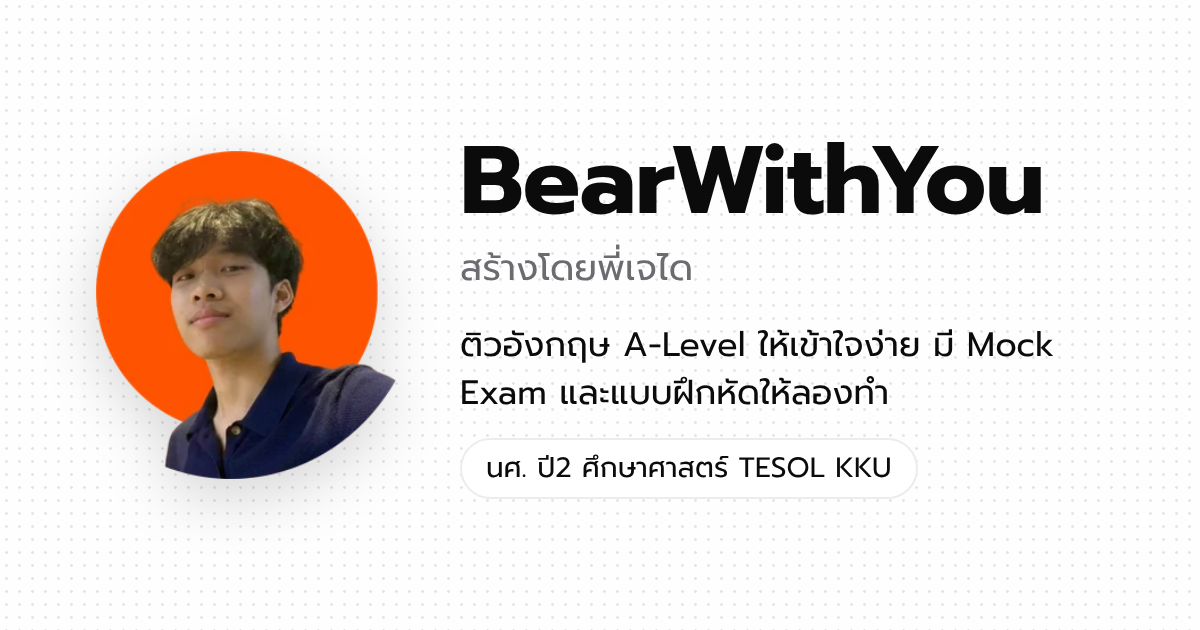
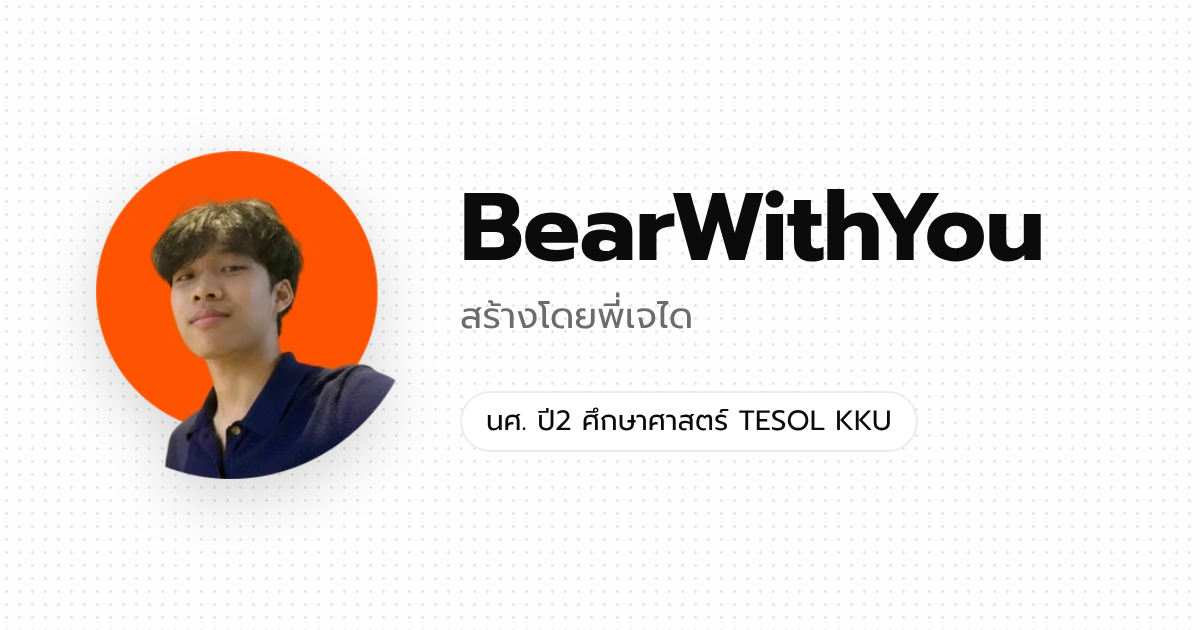
Link page content from Links Studio
- Real links for Drive, Widget, LINE OpenChat and social profiles
- Large images on the three main buttons (links/img/), badges, no bio line
- og.png regenerated from the new profile

Claude-Session: https://claude.ai/code/session_01HUgxUidVAsaGRWz3NAk6tj

diff --git a/links/ig.html b/links/ig.html
@@ -5,14 +5,14 @@
 <meta charset="UTF-8">
 <meta name="viewport" content="width=device-width, initial-scale=1, viewport-fit=cover">
 <title>BearWithYou</title>
-<meta name="description" content="ติวอังกฤษ A-Level ให้เข้าใจง่าย มี Mock Exam และแบบฝึกหัดให้ลองทำ · สร้างโดยพี่เจได">
+<meta name="description" content="สร้างโดยพี่เจได">
 <meta name="theme-color" content="#FEFEFE" media="(prefers-color-scheme: light)">
 <meta name="theme-color" content="#0F0F11" media="(prefers-color-scheme: dark)">
 <link rel="canonical" href="https://bearwithyou.pages.dev/">
 <meta property="og:type" content="website">
 <meta property="og:url" content="https://bearwithyou.pages.dev/">
 <meta property="og:title" content="BearWithYou">
-<meta property="og:description" content="ติวอังกฤษ A-Level ให้เข้าใจง่าย มี Mock Exam และแบบฝึกหัดให้ลองทำ · สร้างโดยพี่เจได">
+<meta property="og:description" content="สร้างโดยพี่เจได">
 <meta property="og:image" content="https://bearwithyou.pages.dev/og.png">
 <meta property="og:image:width" content="1200">
 <meta property="og:image:height" content="630">
@@ -81,13 +81,12 @@ main{max-width:480px;margin:0 auto;padding:calc(36px + env(safe-area-inset-top,0
 <h1>BearWithYou</h1>
 <p class="by">สร้างโดยพี่เจได</p>
 <p class="pill">นศ. ปี2 ศึกษาศาสตร์ TESOL KKU</p>
-<p class="bio">ติวอังกฤษ <span class="nw">A-Level</span> ให้เข้าใจง่าย มี Mock Exam และแบบฝึกหัดให้ลองทำ</p>
 </header>
 <div class="blocks">
-<a class="b main" href="https://drive.google.com/drive/folders/1tSdpEq-BS-pVeHRoMoDGDK5kG5cLhAdD" data-id="mock"><span class="tile"><svg class="ico" viewBox="0 0 24 24" aria-hidden="true"><path d="M3.5 7.5A2.5 2.5 0 0 1 6 5h3.6l2.2 2.4H18a2.5 2.5 0 0 1 2.5 2.5v7.6A2.5 2.5 0 0 1 18 20H6a2.5 2.5 0 0 1-2.5-2.5Z"/><path d="M3.5 10.5h17"/></svg></span><span class="t"><b>Mock Exam &amp; แบบฝึกหัด <span class="nw">A-Level</span></b><small>โฟลเดอร์ Google Drive</small></span><svg class="ico go" viewBox="0 0 24 24" aria-hidden="true"><path d="M9 5.5 15.5 12 9 18.5"/></svg></a>
-<a class="b" href="https://bwy-widget.pages.dev/?src=bio" data-id="widget"><span class="tile"><svg class="ico" viewBox="0 0 24 24" aria-hidden="true"><rect x="3.5" y="3.5" width="7" height="7" rx="2"/><rect x="13.5" y="3.5" width="7" height="7" rx="2"/><rect x="3.5" y="13.5" width="7" height="7" rx="2"/><rect x="13.5" y="13.5" width="7" height="7" rx="2"/></svg></span><span class="t"><b>Widget นับถอยหลังวันสอบ Dek70</b><small>ฟรี ติดตั้งบน iPhone / iPad</small></span><svg class="ico go" viewBox="0 0 24 24" aria-hidden="true"><path d="M9 5.5 15.5 12 9 18.5"/></svg></a>
-<a class="b" href="https://example.com/openchat" data-id="openchat"><span class="tile"><svg class="ico" viewBox="0 0 24 24" aria-hidden="true"><path d="M12 4c4.7 0 8.5 3 8.5 6.8 0 3.7-3.8 6.7-8.5 6.7-.8 0-1.5-.1-2.2-.2L5.5 20l.6-3.9C4.4 14.9 3.5 13 3.5 10.8 3.5 7 7.3 4 12 4Z"/><path d="M8.5 10.8h.01M12 10.8h.01M15.5 10.8h.01" stroke-width="2.6"/></svg></span><span class="t"><b>LINE OpenChat</b><small>ถามตอบ แจ้งข่าวสอบ</small></span><svg class="ico go" viewBox="0 0 24 24" aria-hidden="true"><path d="M9 5.5 15.5 12 9 18.5"/></svg></a>
-<section class="follow"><h2>ติดตาม BearWithYou</h2><ul class="chips"><li><a href="https://example.com/tiktok" data-id="tiktok">TikTok</a></li><li><a href="https://example.com/instagram" data-id="instagram">Instagram</a></li><li><a href="https://example.com/x" data-id="x">X</a></li><li><a href="https://example.com/threads" data-id="threads">Threads</a></li><li><a href="https://example.com/lemon8" data-id="lemon8">Lemon8</a></li></ul></section>
+<a class="b main cover" href="https://drive.google.com/drive/folders/1tSdpEq-BS-pVeHRoMoDGDK5kG5cLhAdD" data-id="mock"><img class="cv" src="/img/mock-d5fd8f62.webp" width="720" height="398" alt="" loading="lazy" decoding="async"><span class="row"><span class="t"><b>Google Drive<span class="tag">รวม 178 ข้อ</span></b></span><svg class="ico go" viewBox="0 0 24 24" aria-hidden="true"><path d="M9 5.5 15.5 12 9 18.5"/></svg></span></a>
+<a class="b main cover" href="https://bwy-widget.pages.dev/?src=bio" data-id="widget"><img class="cv" src="/img/widget-783f0529.webp" width="720" height="420" alt="" loading="lazy" decoding="async"><span class="row"><span class="t"><b>นับถอยหลังวันสำคัญ<span class="tag">เฉพาะ iOS</span></b></span><svg class="ico go" viewBox="0 0 24 24" aria-hidden="true"><path d="M9 5.5 15.5 12 9 18.5"/></svg></span></a>
+<a class="b main cover" href="https://line.me/ti/g2/XaunxJjN36RqM0Febwc7-tvzH9c39IR8-aUNeA?utm_source=invitation&amp;utm_medium=link_copy&amp;utm_campaign=default" data-id="openchat"><img class="cv" src="/img/openchat-212e9835.webp" width="720" height="438" alt="" loading="lazy" decoding="async"><span class="row"><span class="t"><b>LINE OpenChat<span class="tag">BearWithYou_˚✮</span></b></span><svg class="ico go" viewBox="0 0 24 24" aria-hidden="true"><path d="M9 5.5 15.5 12 9 18.5"/></svg></span></a>
+<section class="follow"><h2>ติดตาม BearWithYou</h2><ul class="chips"><li><a href="https://www.tiktok.com/@bearwithyou21?is_from_webapp=1&amp;sender_device=pc" data-id="tiktok">TikTok</a></li><li><a href="https://www.instagram.com/bearwithyou_exam?avpt=ZDNlZDc0MzIxNw==" data-id="instagram">Instagram</a></li><li><a href="https://x.com/webeartogether?s=11" data-id="x">X</a></li><li><a href="https://www.threads.com/@bearwithyou__" data-id="threads">Threads</a></li><li><a href="https://s.lemon8-app.com/s/GgTkhYTdMh" data-id="lemon8">Lemon8</a></li></ul></section>
 </div>
 </main>
 <script>

diff --git a/links/index.html b/links/index.html
@@ -5,14 +5,14 @@
 <meta charset="UTF-8">
 <meta name="viewport" content="width=device-width, initial-scale=1, viewport-fit=cover">
 <title>BearWithYou</title>
-<meta name="description" content="ติวอังกฤษ A-Level ให้เข้าใจง่าย มี Mock Exam และแบบฝึกหัดให้ลองทำ · สร้างโดยพี่เจได">
+<meta name="description" content="สร้างโดยพี่เจได">
 <meta name="theme-color" content="#FEFEFE" media="(prefers-color-scheme: light)">
 <meta name="theme-color" content="#0F0F11" media="(prefers-color-scheme: dark)">
 <link rel="canonical" href="https://bearwithyou.pages.dev/">
 <meta property="og:type" content="website">
 <meta property="og:url" content="https://bearwithyou.pages.dev/">
 <meta property="og:title" content="BearWithYou">
-<meta property="og:description" content="ติวอังกฤษ A-Level ให้เข้าใจง่าย มี Mock Exam และแบบฝึกหัดให้ลองทำ · สร้างโดยพี่เจได">
+<meta property="og:description" content="สร้างโดยพี่เจได">
 <meta property="og:image" content="https://bearwithyou.pages.dev/og.png">
 <meta property="og:image:width" content="1200">
 <meta property="og:image:height" content="630">
@@ -81,13 +81,12 @@ main{max-width:480px;margin:0 auto;padding:calc(36px + env(safe-area-inset-top,0
 <h1>BearWithYou</h1>
 <p class="by">สร้างโดยพี่เจได</p>
 <p class="pill">นศ. ปี2 ศึกษาศาสตร์ TESOL KKU</p>
-<p class="bio">ติวอังกฤษ <span class="nw">A-Level</span> ให้เข้าใจง่าย มี Mock Exam และแบบฝึกหัดให้ลองทำ</p>
 </header>
 <div class="blocks">
-<a class="b main" href="https://drive.google.com/drive/folders/1tSdpEq-BS-pVeHRoMoDGDK5kG5cLhAdD" data-id="mock"><span class="tile"><svg class="ico" viewBox="0 0 24 24" aria-hidden="true"><path d="M3.5 7.5A2.5 2.5 0 0 1 6 5h3.6l2.2 2.4H18a2.5 2.5 0 0 1 2.5 2.5v7.6A2.5 2.5 0 0 1 18 20H6a2.5 2.5 0 0 1-2.5-2.5Z"/><path d="M3.5 10.5h17"/></svg></span><span class="t"><b>Mock Exam &amp; แบบฝึกหัด <span class="nw">A-Level</span></b><small>โฟลเดอร์ Google Drive</small></span><svg class="ico go" viewBox="0 0 24 24" aria-hidden="true"><path d="M9 5.5 15.5 12 9 18.5"/></svg></a>
-<a class="b" href="https://bwy-widget.pages.dev/?src=bio" data-id="widget"><span class="tile"><svg class="ico" viewBox="0 0 24 24" aria-hidden="true"><rect x="3.5" y="3.5" width="7" height="7" rx="2"/><rect x="13.5" y="3.5" width="7" height="7" rx="2"/><rect x="3.5" y="13.5" width="7" height="7" rx="2"/><rect x="13.5" y="13.5" width="7" height="7" rx="2"/></svg></span><span class="t"><b>Widget นับถอยหลังวันสอบ Dek70</b><small>ฟรี ติดตั้งบน iPhone / iPad</small></span><svg class="ico go" viewBox="0 0 24 24" aria-hidden="true"><path d="M9 5.5 15.5 12 9 18.5"/></svg></a>
-<a class="b" href="https://example.com/openchat" data-id="openchat"><span class="tile"><svg class="ico" viewBox="0 0 24 24" aria-hidden="true"><path d="M12 4c4.7 0 8.5 3 8.5 6.8 0 3.7-3.8 6.7-8.5 6.7-.8 0-1.5-.1-2.2-.2L5.5 20l.6-3.9C4.4 14.9 3.5 13 3.5 10.8 3.5 7 7.3 4 12 4Z"/><path d="M8.5 10.8h.01M12 10.8h.01M15.5 10.8h.01" stroke-width="2.6"/></svg></span><span class="t"><b>LINE OpenChat</b><small>ถามตอบ แจ้งข่าวสอบ</small></span><svg class="ico go" viewBox="0 0 24 24" aria-hidden="true"><path d="M9 5.5 15.5 12 9 18.5"/></svg></a>
-<section class="follow"><h2>ติดตาม BearWithYou</h2><ul class="chips"><li><a href="https://example.com/tiktok" data-id="tiktok">TikTok</a></li><li><a href="https://example.com/instagram" data-id="instagram">Instagram</a></li><li><a href="https://example.com/x" data-id="x">X</a></li><li><a href="https://example.com/threads" data-id="threads">Threads</a></li><li><a href="https://example.com/lemon8" data-id="lemon8">Lemon8</a></li></ul></section>
+<a class="b main cover" href="https://drive.google.com/drive/folders/1tSdpEq-BS-pVeHRoMoDGDK5kG5cLhAdD" data-id="mock"><img class="cv" src="/img/mock-d5fd8f62.webp" width="720" height="398" alt="" loading="lazy" decoding="async"><span class="row"><span class="t"><b>Google Drive<span class="tag">รวม 178 ข้อ</span></b></span><svg class="ico go" viewBox="0 0 24 24" aria-hidden="true"><path d="M9 5.5 15.5 12 9 18.5"/></svg></span></a>
+<a class="b main cover" href="https://bwy-widget.pages.dev/?src=bio" data-id="widget"><img class="cv" src="/img/widget-783f0529.webp" width="720" height="420" alt="" loading="lazy" decoding="async"><span class="row"><span class="t"><b>นับถอยหลังวันสำคัญ<span class="tag">เฉพาะ iOS</span></b></span><svg class="ico go" viewBox="0 0 24 24" aria-hidden="true"><path d="M9 5.5 15.5 12 9 18.5"/></svg></span></a>
+<a class="b main cover" href="https://line.me/ti/g2/XaunxJjN36RqM0Febwc7-tvzH9c39IR8-aUNeA?utm_source=invitation&amp;utm_medium=link_copy&amp;utm_campaign=default" data-id="openchat"><img class="cv" src="/img/openchat-212e9835.webp" width="720" height="438" alt="" loading="lazy" decoding="async"><span class="row"><span class="t"><b>LINE OpenChat<span class="tag">BearWithYou_˚✮</span></b></span><svg class="ico go" viewBox="0 0 24 24" aria-hidden="true"><path d="M9 5.5 15.5 12 9 18.5"/></svg></span></a>
+<section class="follow"><h2>ติดตาม BearWithYou</h2><ul class="chips"><li><a href="https://www.tiktok.com/@bearwithyou21?is_from_webapp=1&amp;sender_device=pc" data-id="tiktok">TikTok</a></li><li><a href="https://www.instagram.com/bearwithyou_exam?avpt=ZDNlZDc0MzIxNw==" data-id="instagram">Instagram</a></li><li><a href="https://x.com/webeartogether?s=11" data-id="x">X</a></li><li><a href="https://www.threads.com/@bearwithyou__" data-id="threads">Threads</a></li><li><a href="https://s.lemon8-app.com/s/GgTkhYTdMh" data-id="lemon8">Lemon8</a></li></ul></section>
 </div>
 </main>
 <script>

diff --git a/links/l8.html b/links/l8.html
@@ -5,14 +5,14 @@
 <meta charset="UTF-8">
 <meta name="viewport" content="width=device-width, initial-scale=1, viewport-fit=cover">
 <title>BearWithYou</title>
-<meta name="description" content="ติวอังกฤษ A-Level ให้เข้าใจง่าย มี Mock Exam และแบบฝึกหัดให้ลองทำ · สร้างโดยพี่เจได">
+<meta name="description" content="สร้างโดยพี่เจได">
 <meta name="theme-color" content="#FEFEFE" media="(prefers-color-scheme: light)">
 <meta name="theme-color" content="#0F0F11" media="(prefers-color-scheme: dark)">
 <link rel="canonical" href="https://bearwithyou.pages.dev/">
 <meta property="og:type" content="website">
 <meta property="og:url" content="https://bearwithyou.pages.dev/">
 <meta property="og:title" content="BearWithYou">
-<meta property="og:description" content="ติวอังกฤษ A-Level ให้เข้าใจง่าย มี Mock Exam และแบบฝึกหัดให้ลองทำ · สร้างโดยพี่เจได">
+<meta property="og:description" content="สร้างโดยพี่เจได">
 <meta property="og:image" content="https://bearwithyou.pages.dev/og.png">
 <meta property="og:image:width" content="1200">
 <meta property="og:image:height" content="630">
@@ -81,13 +81,12 @@ main{max-width:480px;margin:0 auto;padding:calc(36px + env(safe-area-inset-top,0
 <h1>BearWithYou</h1>
 <p class="by">สร้างโดยพี่เจได</p>
 <p class="pill">นศ. ปี2 ศึกษาศาสตร์ TESOL KKU</p>
-<p class="bio">ติวอังกฤษ <span class="nw">A-Level</span> ให้เข้าใจง่าย มี Mock Exam และแบบฝึกหัดให้ลองทำ</p>
 </header>
 <div class="blocks">
-<a class="b main" href="https://drive.google.com/drive/folders/1tSdpEq-BS-pVeHRoMoDGDK5kG5cLhAdD" data-id="mock"><span class="tile"><svg class="ico" viewBox="0 0 24 24" aria-hidden="true"><path d="M3.5 7.5A2.5 2.5 0 0 1 6 5h3.6l2.2 2.4H18a2.5 2.5 0 0 1 2.5 2.5v7.6A2.5 2.5 0 0 1 18 20H6a2.5 2.5 0 0 1-2.5-2.5Z"/><path d="M3.5 10.5h17"/></svg></span><span class="t"><b>Mock Exam &amp; แบบฝึกหัด <span class="nw">A-Level</span></b><small>โฟลเดอร์ Google Drive</small></span><svg class="ico go" viewBox="0 0 24 24" aria-hidden="true"><path d="M9 5.5 15.5 12 9 18.5"/></svg></a>
-<a class="b" href="https://bwy-widget.pages.dev/?src=bio" data-id="widget"><span class="tile"><svg class="ico" viewBox="0 0 24 24" aria-hidden="true"><rect x="3.5" y="3.5" width="7" height="7" rx="2"/><rect x="13.5" y="3.5" width="7" height="7" rx="2"/><rect x="3.5" y="13.5" width="7" height="7" rx="2"/><rect x="13.5" y="13.5" width="7" height="7" rx="2"/></svg></span><span class="t"><b>Widget นับถอยหลังวันสอบ Dek70</b><small>ฟรี ติดตั้งบน iPhone / iPad</small></span><svg class="ico go" viewBox="0 0 24 24" aria-hidden="true"><path d="M9 5.5 15.5 12 9 18.5"/></svg></a>
-<a class="b" href="https://example.com/openchat" data-id="openchat"><span class="tile"><svg class="ico" viewBox="0 0 24 24" aria-hidden="true"><path d="M12 4c4.7 0 8.5 3 8.5 6.8 0 3.7-3.8 6.7-8.5 6.7-.8 0-1.5-.1-2.2-.2L5.5 20l.6-3.9C4.4 14.9 3.5 13 3.5 10.8 3.5 7 7.3 4 12 4Z"/><path d="M8.5 10.8h.01M12 10.8h.01M15.5 10.8h.01" stroke-width="2.6"/></svg></span><span class="t"><b>LINE OpenChat</b><small>ถามตอบ แจ้งข่าวสอบ</small></span><svg class="ico go" viewBox="0 0 24 24" aria-hidden="true"><path d="M9 5.5 15.5 12 9 18.5"/></svg></a>
-<section class="follow"><h2>ติดตาม BearWithYou</h2><ul class="chips"><li><a href="https://example.com/tiktok" data-id="tiktok">TikTok</a></li><li><a href="https://example.com/instagram" data-id="instagram">Instagram</a></li><li><a href="https://example.com/x" data-id="x">X</a></li><li><a href="https://example.com/threads" data-id="threads">Threads</a></li><li><a href="https://example.com/lemon8" data-id="lemon8">Lemon8</a></li></ul></section>
+<a class="b main cover" href="https://drive.google.com/drive/folders/1tSdpEq-BS-pVeHRoMoDGDK5kG5cLhAdD" data-id="mock"><img class="cv" src="/img/mock-d5fd8f62.webp" width="720" height="398" alt="" loading="lazy" decoding="async"><span class="row"><span class="t"><b>Google Drive<span class="tag">รวม 178 ข้อ</span></b></span><svg class="ico go" viewBox="0 0 24 24" aria-hidden="true"><path d="M9 5.5 15.5 12 9 18.5"/></svg></span></a>
+<a class="b main cover" href="https://bwy-widget.pages.dev/?src=bio" data-id="widget"><img class="cv" src="/img/widget-783f0529.webp" width="720" height="420" alt="" loading="lazy" decoding="async"><span class="row"><span class="t"><b>นับถอยหลังวันสำคัญ<span class="tag">เฉพาะ iOS</span></b></span><svg class="ico go" viewBox="0 0 24 24" aria-hidden="true"><path d="M9 5.5 15.5 12 9 18.5"/></svg></span></a>
+<a class="b main cover" href="https://line.me/ti/g2/XaunxJjN36RqM0Febwc7-tvzH9c39IR8-aUNeA?utm_source=invitation&amp;utm_medium=link_copy&amp;utm_campaign=default" data-id="openchat"><img class="cv" src="/img/openchat-212e9835.webp" width="720" height="438" alt="" loading="lazy" decoding="async"><span class="row"><span class="t"><b>LINE OpenChat<span class="tag">BearWithYou_˚✮</span></b></span><svg class="ico go" viewBox="0 0 24 24" aria-hidden="true"><path d="M9 5.5 15.5 12 9 18.5"/></svg></span></a>
+<section class="follow"><h2>ติดตาม BearWithYou</h2><ul class="chips"><li><a href="https://www.tiktok.com/@bearwithyou21?is_from_webapp=1&amp;sender_device=pc" data-id="tiktok">TikTok</a></li><li><a href="https://www.instagram.com/bearwithyou_exam?avpt=ZDNlZDc0MzIxNw==" data-id="instagram">Instagram</a></li><li><a href="https://x.com/webeartogether?s=11" data-id="x">X</a></li><li><a href="https://www.threads.com/@bearwithyou__" data-id="threads">Threads</a></li><li><a href="https://s.lemon8-app.com/s/GgTkhYTdMh" data-id="lemon8">Lemon8</a></li></ul></section>
 </div>
 </main>
 <script>

diff --git a/links/line.html b/links/line.html
@@ -5,14 +5,14 @@
 <meta charset="UTF-8">
 <meta name="viewport" content="width=device-width, initial-scale=1, viewport-fit=cover">
 <title>BearWithYou</title>
-<meta name="description" content="ติวอังกฤษ A-Level ให้เข้าใจง่าย มี Mock Exam และแบบฝึกหัดให้ลองทำ · สร้างโดยพี่เจได">
+<meta name="description" content="สร้างโดยพี่เจได">
 <meta name="theme-color" content="#FEFEFE" media="(prefers-color-scheme: light)">
 <meta name="theme-color" content="#0F0F11" media="(prefers-color-scheme: dark)">
 <link rel="canonical" href="https://bearwithyou.pages.dev/">
 <meta property="og:type" content="website">
 <meta property="og:url" content="https://bearwithyou.pages.dev/">
 <meta property="og:title" content="BearWithYou">
-<meta property="og:description" content="ติวอังกฤษ A-Level ให้เข้าใจง่าย มี Mock Exam และแบบฝึกหัดให้ลองทำ · สร้างโดยพี่เจได">
+<meta property="og:description" content="สร้างโดยพี่เจได">
 <meta property="og:image" content="https://bearwithyou.pages.dev/og.png">
 <meta property="og:image:width" content="1200">
 <meta property="og:image:height" content="630">
@@ -81,13 +81,12 @@ main{max-width:480px;margin:0 auto;padding:calc(36px + env(safe-area-inset-top,0
 <h1>BearWithYou</h1>
 <p class="by">สร้างโดยพี่เจได</p>
 <p class="pill">นศ. ปี2 ศึกษาศาสตร์ TESOL KKU</p>
-<p class="bio">ติวอังกฤษ <span class="nw">A-Level</span> ให้เข้าใจง่าย มี Mock Exam และแบบฝึกหัดให้ลองทำ</p>
 </header>
 <div class="blocks">
-<a class="b main" href="https://drive.google.com/drive/folders/1tSdpEq-BS-pVeHRoMoDGDK5kG5cLhAdD" data-id="mock"><span class="tile"><svg class="ico" viewBox="0 0 24 24" aria-hidden="true"><path d="M3.5 7.5A2.5 2.5 0 0 1 6 5h3.6l2.2 2.4H18a2.5 2.5 0 0 1 2.5 2.5v7.6A2.5 2.5 0 0 1 18 20H6a2.5 2.5 0 0 1-2.5-2.5Z"/><path d="M3.5 10.5h17"/></svg></span><span class="t"><b>Mock Exam &amp; แบบฝึกหัด <span class="nw">A-Level</span></b><small>โฟลเดอร์ Google Drive</small></span><svg class="ico go" viewBox="0 0 24 24" aria-hidden="true"><path d="M9 5.5 15.5 12 9 18.5"/></svg></a>
-<a class="b" href="https://bwy-widget.pages.dev/?src=bio" data-id="widget"><span class="tile"><svg class="ico" viewBox="0 0 24 24" aria-hidden="true"><rect x="3.5" y="3.5" width="7" height="7" rx="2"/><rect x="13.5" y="3.5" width="7" height="7" rx="2"/><rect x="3.5" y="13.5" width="7" height="7" rx="2"/><rect x="13.5" y="13.5" width="7" height="7" rx="2"/></svg></span><span class="t"><b>Widget นับถอยหลังวันสอบ Dek70</b><small>ฟรี ติดตั้งบน iPhone / iPad</small></span><svg class="ico go" viewBox="0 0 24 24" aria-hidden="true"><path d="M9 5.5 15.5 12 9 18.5"/></svg></a>
-<a class="b" href="https://example.com/openchat" data-id="openchat"><span class="tile"><svg class="ico" viewBox="0 0 24 24" aria-hidden="true"><path d="M12 4c4.7 0 8.5 3 8.5 6.8 0 3.7-3.8 6.7-8.5 6.7-.8 0-1.5-.1-2.2-.2L5.5 20l.6-3.9C4.4 14.9 3.5 13 3.5 10.8 3.5 7 7.3 4 12 4Z"/><path d="M8.5 10.8h.01M12 10.8h.01M15.5 10.8h.01" stroke-width="2.6"/></svg></span><span class="t"><b>LINE OpenChat</b><small>ถามตอบ แจ้งข่าวสอบ</small></span><svg class="ico go" viewBox="0 0 24 24" aria-hidden="true"><path d="M9 5.5 15.5 12 9 18.5"/></svg></a>
-<section class="follow"><h2>ติดตาม BearWithYou</h2><ul class="chips"><li><a href="https://example.com/tiktok" data-id="tiktok">TikTok</a></li><li><a href="https://example.com/instagram" data-id="instagram">Instagram</a></li><li><a href="https://example.com/x" data-id="x">X</a></li><li><a href="https://example.com/threads" data-id="threads">Threads</a></li><li><a href="https://example.com/lemon8" data-id="lemon8">Lemon8</a></li></ul></section>
+<a class="b main cover" href="https://drive.google.com/drive/folders/1tSdpEq-BS-pVeHRoMoDGDK5kG5cLhAdD" data-id="mock"><img class="cv" src="/img/mock-d5fd8f62.webp" width="720" height="398" alt="" loading="lazy" decoding="async"><span class="row"><span class="t"><b>Google Drive<span class="tag">รวม 178 ข้อ</span></b></span><svg class="ico go" viewBox="0 0 24 24" aria-hidden="true"><path d="M9 5.5 15.5 12 9 18.5"/></svg></span></a>
+<a class="b main cover" href="https://bwy-widget.pages.dev/?src=bio" data-id="widget"><img class="cv" src="/img/widget-783f0529.webp" width="720" height="420" alt="" loading="lazy" decoding="async"><span class="row"><span class="t"><b>นับถอยหลังวันสำคัญ<span class="tag">เฉพาะ iOS</span></b></span><svg class="ico go" viewBox="0 0 24 24" aria-hidden="true"><path d="M9 5.5 15.5 12 9 18.5"/></svg></span></a>
+<a class="b main cover" href="https://line.me/ti/g2/XaunxJjN36RqM0Febwc7-tvzH9c39IR8-aUNeA?utm_source=invitation&amp;utm_medium=link_copy&amp;utm_campaign=default" data-id="openchat"><img class="cv" src="/img/openchat-212e9835.webp" width="720" height="438" alt="" loading="lazy" decoding="async"><span class="row"><span class="t"><b>LINE OpenChat<span class="tag">BearWithYou_˚✮</span></b></span><svg class="ico go" viewBox="0 0 24 24" aria-hidden="true"><path d="M9 5.5 15.5 12 9 18.5"/></svg></span></a>
+<section class="follow"><h2>ติดตาม BearWithYou</h2><ul class="chips"><li><a href="https://www.tiktok.com/@bearwithyou21?is_from_webapp=1&amp;sender_device=pc" data-id="tiktok">TikTok</a></li><li><a href="https://www.instagram.com/bearwithyou_exam?avpt=ZDNlZDc0MzIxNw==" data-id="instagram">Instagram</a></li><li><a href="https://x.com/webeartogether?s=11" data-id="x">X</a></li><li><a href="https://www.threads.com/@bearwithyou__" data-id="threads">Threads</a></li><li><a href="https://s.lemon8-app.com/s/GgTkhYTdMh" data-id="lemon8">Lemon8</a></li></ul></section>
 </div>
 </main>
 <script>

diff --git a/links/th.html b/links/th.html
@@ -5,14 +5,14 @@
 <meta charset="UTF-8">
 <meta name="viewport" content="width=device-width, initial-scale=1, viewport-fit=cover">
 <title>BearWithYou</title>
-<meta name="description" content="ติวอังกฤษ A-Level ให้เข้าใจง่าย มี Mock Exam และแบบฝึกหัดให้ลองทำ · สร้างโดยพี่เจได">
+<meta name="description" content="สร้างโดยพี่เจได">
 <meta name="theme-color" content="#FEFEFE" media="(prefers-color-scheme: light)">
 <meta name="theme-color" content="#0F0F11" media="(prefers-color-scheme: dark)">
 <link rel="canonical" href="https://bearwithyou.pages.dev/">
 <meta property="og:type" content="website">
 <meta property="og:url" content="https://bearwithyou.pages.dev/">
 <meta property="og:title" content="BearWithYou">
-<meta property="og:description" content="ติวอังกฤษ A-Level ให้เข้าใจง่าย มี Mock Exam และแบบฝึกหัดให้ลองทำ · สร้างโดยพี่เจได">
+<meta property="og:description" content="สร้างโดยพี่เจได">
 <meta property="og:image" content="https://bearwithyou.pages.dev/og.png">
 <meta property="og:image:width" content="1200">
 <meta property="og:image:height" content="630">
@@ -81,13 +81,12 @@ main{max-width:480px;margin:0 auto;padding:calc(36px + env(safe-area-inset-top,0
 <h1>BearWithYou</h1>
 <p class="by">สร้างโดยพี่เจได</p>
 <p class="pill">นศ. ปี2 ศึกษาศาสตร์ TESOL KKU</p>
-<p class="bio">ติวอังกฤษ <span class="nw">A-Level</span> ให้เข้าใจง่าย มี Mock Exam และแบบฝึกหัดให้ลองทำ</p>
 </header>
 <div class="blocks">
-<a class="b main" href="https://drive.google.com/drive/folders/1tSdpEq-BS-pVeHRoMoDGDK5kG5cLhAdD" data-id="mock"><span class="tile"><svg class="ico" viewBox="0 0 24 24" aria-hidden="true"><path d="M3.5 7.5A2.5 2.5 0 0 1 6 5h3.6l2.2 2.4H18a2.5 2.5 0 0 1 2.5 2.5v7.6A2.5 2.5 0 0 1 18 20H6a2.5 2.5 0 0 1-2.5-2.5Z"/><path d="M3.5 10.5h17"/></svg></span><span class="t"><b>Mock Exam &amp; แบบฝึกหัด <span class="nw">A-Level</span></b><small>โฟลเดอร์ Google Drive</small></span><svg class="ico go" viewBox="0 0 24 24" aria-hidden="true"><path d="M9 5.5 15.5 12 9 18.5"/></svg></a>
-<a class="b" href="https://bwy-widget.pages.dev/?src=bio" data-id="widget"><span class="tile"><svg class="ico" viewBox="0 0 24 24" aria-hidden="true"><rect x="3.5" y="3.5" width="7" height="7" rx="2"/><rect x="13.5" y="3.5" width="7" height="7" rx="2"/><rect x="3.5" y="13.5" width="7" height="7" rx="2"/><rect x="13.5" y="13.5" width="7" height="7" rx="2"/></svg></span><span class="t"><b>Widget นับถอยหลังวันสอบ Dek70</b><small>ฟรี ติดตั้งบน iPhone / iPad</small></span><svg class="ico go" viewBox="0 0 24 24" aria-hidden="true"><path d="M9 5.5 15.5 12 9 18.5"/></svg></a>
-<a class="b" href="https://example.com/openchat" data-id="openchat"><span class="tile"><svg class="ico" viewBox="0 0 24 24" aria-hidden="true"><path d="M12 4c4.7 0 8.5 3 8.5 6.8 0 3.7-3.8 6.7-8.5 6.7-.8 0-1.5-.1-2.2-.2L5.5 20l.6-3.9C4.4 14.9 3.5 13 3.5 10.8 3.5 7 7.3 4 12 4Z"/><path d="M8.5 10.8h.01M12 10.8h.01M15.5 10.8h.01" stroke-width="2.6"/></svg></span><span class="t"><b>LINE OpenChat</b><small>ถามตอบ แจ้งข่าวสอบ</small></span><svg class="ico go" viewBox="0 0 24 24" aria-hidden="true"><path d="M9 5.5 15.5 12 9 18.5"/></svg></a>
-<section class="follow"><h2>ติดตาม BearWithYou</h2><ul class="chips"><li><a href="https://example.com/tiktok" data-id="tiktok">TikTok</a></li><li><a href="https://example.com/instagram" data-id="instagram">Instagram</a></li><li><a href="https://example.com/x" data-id="x">X</a></li><li><a href="https://example.com/threads" data-id="threads">Threads</a></li><li><a href="https://example.com/lemon8" data-id="lemon8">Lemon8</a></li></ul></section>
+<a class="b main cover" href="https://drive.google.com/drive/folders/1tSdpEq-BS-pVeHRoMoDGDK5kG5cLhAdD" data-id="mock"><img class="cv" src="/img/mock-d5fd8f62.webp" width="720" height="398" alt="" loading="lazy" decoding="async"><span class="row"><span class="t"><b>Google Drive<span class="tag">รวม 178 ข้อ</span></b></span><svg class="ico go" viewBox="0 0 24 24" aria-hidden="true"><path d="M9 5.5 15.5 12 9 18.5"/></svg></span></a>
+<a class="b main cover" href="https://bwy-widget.pages.dev/?src=bio" data-id="widget"><img class="cv" src="/img/widget-783f0529.webp" width="720" height="420" alt="" loading="lazy" decoding="async"><span class="row"><span class="t"><b>นับถอยหลังวันสำคัญ<span class="tag">เฉพาะ iOS</span></b></span><svg class="ico go" viewBox="0 0 24 24" aria-hidden="true"><path d="M9 5.5 15.5 12 9 18.5"/></svg></span></a>
+<a class="b main cover" href="https://line.me/ti/g2/XaunxJjN36RqM0Febwc7-tvzH9c39IR8-aUNeA?utm_source=invitation&amp;utm_medium=link_copy&amp;utm_campaign=default" data-id="openchat"><img class="cv" src="/img/openchat-212e9835.webp" width="720" height="438" alt="" loading="lazy" decoding="async"><span class="row"><span class="t"><b>LINE OpenChat<span class="tag">BearWithYou_˚✮</span></b></span><svg class="ico go" viewBox="0 0 24 24" aria-hidden="true"><path d="M9 5.5 15.5 12 9 18.5"/></svg></span></a>
+<section class="follow"><h2>ติดตาม BearWithYou</h2><ul class="chips"><li><a href="https://www.tiktok.com/@bearwithyou21?is_from_webapp=1&amp;sender_device=pc" data-id="tiktok">TikTok</a></li><li><a href="https://www.instagram.com/bearwithyou_exam?avpt=ZDNlZDc0MzIxNw==" data-id="instagram">Instagram</a></li><li><a href="https://x.com/webeartogether?s=11" data-id="x">X</a></li><li><a href="https://www.threads.com/@bearwithyou__" data-id="threads">Threads</a></li><li><a href="https://s.lemon8-app.com/s/GgTkhYTdMh" data-id="lemon8">Lemon8</a></li></ul></section>
 </div>
 </main>
 <script>

diff --git a/links/tt.html b/links/tt.html
@@ -5,14 +5,14 @@
 <meta charset="UTF-8">
 <meta name="viewport" content="width=device-width, initial-scale=1, viewport-fit=cover">
 <title>BearWithYou</title>
-<meta name="description" content="ติวอังกฤษ A-Level ให้เข้าใจง่าย มี Mock Exam และแบบฝึกหัดให้ลองทำ · สร้างโดยพี่เจได">
+<meta name="description" content="สร้างโดยพี่เจได">
 <meta name="theme-color" content="#FEFEFE" media="(prefers-color-scheme: light)">
 <meta name="theme-color" content="#0F0F11" media="(prefers-color-scheme: dark)">
 <link rel="canonical" href="https://bearwithyou.pages.dev/">
 <meta property="og:type" content="website">
 <meta property="og:url" content="https://bearwithyou.pages.dev/">
 <meta property="og:title" content="BearWithYou">
-<meta property="og:description" content="ติวอังกฤษ A-Level ให้เข้าใจง่าย มี Mock Exam และแบบฝึกหัดให้ลองทำ · สร้างโดยพี่เจได">
+<meta property="og:description" content="สร้างโดยพี่เจได">
 <meta property="og:image" content="https://bearwithyou.pages.dev/og.png">
 <meta property="og:image:width" content="1200">
 <meta property="og:image:height" content="630">
@@ -81,13 +81,12 @@ main{max-width:480px;margin:0 auto;padding:calc(36px + env(safe-area-inset-top,0
 <h1>BearWithYou</h1>
 <p class="by">สร้างโดยพี่เจได</p>
 <p class="pill">นศ. ปี2 ศึกษาศาสตร์ TESOL KKU</p>
-<p class="bio">ติวอังกฤษ <span class="nw">A-Level</span> ให้เข้าใจง่าย มี Mock Exam และแบบฝึกหัดให้ลองทำ</p>
 </header>
 <div class="blocks">
-<a class="b main" href="https://drive.google.com/drive/folders/1tSdpEq-BS-pVeHRoMoDGDK5kG5cLhAdD" data-id="mock"><span class="tile"><svg class="ico" viewBox="0 0 24 24" aria-hidden="true"><path d="M3.5 7.5A2.5 2.5 0 0 1 6 5h3.6l2.2 2.4H18a2.5 2.5 0 0 1 2.5 2.5v7.6A2.5 2.5 0 0 1 18 20H6a2.5 2.5 0 0 1-2.5-2.5Z"/><path d="M3.5 10.5h17"/></svg></span><span class="t"><b>Mock Exam &amp; แบบฝึกหัด <span class="nw">A-Level</span></b><small>โฟลเดอร์ Google Drive</small></span><svg class="ico go" viewBox="0 0 24 24" aria-hidden="true"><path d="M9 5.5 15.5 12 9 18.5"/></svg></a>
-<a class="b" href="https://bwy-widget.pages.dev/?src=bio" data-id="widget"><span class="tile"><svg class="ico" viewBox="0 0 24 24" aria-hidden="true"><rect x="3.5" y="3.5" width="7" height="7" rx="2"/><rect x="13.5" y="3.5" width="7" height="7" rx="2"/><rect x="3.5" y="13.5" width="7" height="7" rx="2"/><rect x="13.5" y="13.5" width="7" height="7" rx="2"/></svg></span><span class="t"><b>Widget นับถอยหลังวันสอบ Dek70</b><small>ฟรี ติดตั้งบน iPhone / iPad</small></span><svg class="ico go" viewBox="0 0 24 24" aria-hidden="true"><path d="M9 5.5 15.5 12 9 18.5"/></svg></a>
-<a class="b" href="https://example.com/openchat" data-id="openchat"><span class="tile"><svg class="ico" viewBox="0 0 24 24" aria-hidden="true"><path d="M12 4c4.7 0 8.5 3 8.5 6.8 0 3.7-3.8 6.7-8.5 6.7-.8 0-1.5-.1-2.2-.2L5.5 20l.6-3.9C4.4 14.9 3.5 13 3.5 10.8 3.5 7 7.3 4 12 4Z"/><path d="M8.5 10.8h.01M12 10.8h.01M15.5 10.8h.01" stroke-width="2.6"/></svg></span><span class="t"><b>LINE OpenChat</b><small>ถามตอบ แจ้งข่าวสอบ</small></span><svg class="ico go" viewBox="0 0 24 24" aria-hidden="true"><path d="M9 5.5 15.5 12 9 18.5"/></svg></a>
-<section class="follow"><h2>ติดตาม BearWithYou</h2><ul class="chips"><li><a href="https://example.com/tiktok" data-id="tiktok">TikTok</a></li><li><a href="https://example.com/instagram" data-id="instagram">Instagram</a></li><li><a href="https://example.com/x" data-id="x">X</a></li><li><a href="https://example.com/threads" data-id="threads">Threads</a></li><li><a href="https://example.com/lemon8" data-id="lemon8">Lemon8</a></li></ul></section>
+<a class="b main cover" href="https://drive.google.com/drive/folders/1tSdpEq-BS-pVeHRoMoDGDK5kG5cLhAdD" data-id="mock"><img class="cv" src="/img/mock-d5fd8f62.webp" width="720" height="398" alt="" loading="lazy" decoding="async"><span class="row"><span class="t"><b>Google Drive<span class="tag">รวม 178 ข้อ</span></b></span><svg class="ico go" viewBox="0 0 24 24" aria-hidden="true"><path d="M9 5.5 15.5 12 9 18.5"/></svg></span></a>
+<a class="b main cover" href="https://bwy-widget.pages.dev/?src=bio" data-id="widget"><img class="cv" src="/img/widget-783f0529.webp" width="720" height="420" alt="" loading="lazy" decoding="async"><span class="row"><span class="t"><b>นับถอยหลังวันสำคัญ<span class="tag">เฉพาะ iOS</span></b></span><svg class="ico go" viewBox="0 0 24 24" aria-hidden="true"><path d="M9 5.5 15.5 12 9 18.5"/></svg></span></a>
+<a class="b main cover" href="https://line.me/ti/g2/XaunxJjN36RqM0Febwc7-tvzH9c39IR8-aUNeA?utm_source=invitation&amp;utm_medium=link_copy&amp;utm_campaign=default" data-id="openchat"><img class="cv" src="/img/openchat-212e9835.webp" width="720" height="438" alt="" loading="lazy" decoding="async"><span class="row"><span class="t"><b>LINE OpenChat<span class="tag">BearWithYou_˚✮</span></b></span><svg class="ico go" viewBox="0 0 24 24" aria-hidden="true"><path d="M9 5.5 15.5 12 9 18.5"/></svg></span></a>
+<section class="follow"><h2>ติดตาม BearWithYou</h2><ul class="chips"><li><a href="https://www.tiktok.com/@bearwithyou21?is_from_webapp=1&amp;sender_device=pc" data-id="tiktok">TikTok</a></li><li><a href="https://www.instagram.com/bearwithyou_exam?avpt=ZDNlZDc0MzIxNw==" data-id="instagram">Instagram</a></li><li><a href="https://x.com/webeartogether?s=11" data-id="x">X</a></li><li><a href="https://www.threads.com/@bearwithyou__" data-id="threads">Threads</a></li><li><a href="https://s.lemon8-app.com/s/GgTkhYTdMh" data-id="lemon8">Lemon8</a></li></ul></section>
 </div>
 </main>
 <script>

diff --git a/links/x.html b/links/x.html
@@ -5,14 +5,14 @@
 <meta charset="UTF-8">
 <meta name="viewport" content="width=device-width, initial-scale=1, viewport-fit=cover">
 <title>BearWithYou</title>
-<meta name="description" content="ติวอังกฤษ A-Level ให้เข้าใจง่าย มี Mock Exam และแบบฝึกหัดให้ลองทำ · สร้างโดยพี่เจได">
+<meta name="description" content="สร้างโดยพี่เจได">
 <meta name="theme-color" content="#FEFEFE" media="(prefers-color-scheme: light)">
 <meta name="theme-color" content="#0F0F11" media="(prefers-color-scheme: dark)">
 <link rel="canonical" href="https://bearwithyou.pages.dev/">
 <meta property="og:type" content="website">
 <meta property="og:url" content="https://bearwithyou.pages.dev/">
 <meta property="og:title" content="BearWithYou">
-<meta property="og:description" content="ติวอังกฤษ A-Level ให้เข้าใจง่าย มี Mock Exam และแบบฝึกหัดให้ลองทำ · สร้างโดยพี่เจได">
+<meta property="og:description" content="สร้างโดยพี่เจได">
 <meta property="og:image" content="https://bearwithyou.pages.dev/og.png">
 <meta property="og:image:width" content="1200">
 <meta property="og:image:height" content="630">
@@ -81,13 +81,12 @@ main{max-width:480px;margin:0 auto;padding:calc(36px + env(safe-area-inset-top,0
 <h1>BearWithYou</h1>
 <p class="by">สร้างโดยพี่เจได</p>
 <p class="pill">นศ. ปี2 ศึกษาศาสตร์ TESOL KKU</p>
-<p class="bio">ติวอังกฤษ <span class="nw">A-Level</span> ให้เข้าใจง่าย มี Mock Exam และแบบฝึกหัดให้ลองทำ</p>
 </header>
 <div class="blocks">
-<a class="b main" href="https://drive.google.com/drive/folders/1tSdpEq-BS-pVeHRoMoDGDK5kG5cLhAdD" data-id="mock"><span class="tile"><svg class="ico" viewBox="0 0 24 24" aria-hidden="true"><path d="M3.5 7.5A2.5 2.5 0 0 1 6 5h3.6l2.2 2.4H18a2.5 2.5 0 0 1 2.5 2.5v7.6A2.5 2.5 0 0 1 18 20H6a2.5 2.5 0 0 1-2.5-2.5Z"/><path d="M3.5 10.5h17"/></svg></span><span class="t"><b>Mock Exam &amp; แบบฝึกหัด <span class="nw">A-Level</span></b><small>โฟลเดอร์ Google Drive</small></span><svg class="ico go" viewBox="0 0 24 24" aria-hidden="true"><path d="M9 5.5 15.5 12 9 18.5"/></svg></a>
-<a class="b" href="https://bwy-widget.pages.dev/?src=bio" data-id="widget"><span class="tile"><svg class="ico" viewBox="0 0 24 24" aria-hidden="true"><rect x="3.5" y="3.5" width="7" height="7" rx="2"/><rect x="13.5" y="3.5" width="7" height="7" rx="2"/><rect x="3.5" y="13.5" width="7" height="7" rx="2"/><rect x="13.5" y="13.5" width="7" height="7" rx="2"/></svg></span><span class="t"><b>Widget นับถอยหลังวันสอบ Dek70</b><small>ฟรี ติดตั้งบน iPhone / iPad</small></span><svg class="ico go" viewBox="0 0 24 24" aria-hidden="true"><path d="M9 5.5 15.5 12 9 18.5"/></svg></a>
-<a class="b" href="https://example.com/openchat" data-id="openchat"><span class="tile"><svg class="ico" viewBox="0 0 24 24" aria-hidden="true"><path d="M12 4c4.7 0 8.5 3 8.5 6.8 0 3.7-3.8 6.7-8.5 6.7-.8 0-1.5-.1-2.2-.2L5.5 20l.6-3.9C4.4 14.9 3.5 13 3.5 10.8 3.5 7 7.3 4 12 4Z"/><path d="M8.5 10.8h.01M12 10.8h.01M15.5 10.8h.01" stroke-width="2.6"/></svg></span><span class="t"><b>LINE OpenChat</b><small>ถามตอบ แจ้งข่าวสอบ</small></span><svg class="ico go" viewBox="0 0 24 24" aria-hidden="true"><path d="M9 5.5 15.5 12 9 18.5"/></svg></a>
-<section class="follow"><h2>ติดตาม BearWithYou</h2><ul class="chips"><li><a href="https://example.com/tiktok" data-id="tiktok">TikTok</a></li><li><a href="https://example.com/instagram" data-id="instagram">Instagram</a></li><li><a href="https://example.com/x" data-id="x">X</a></li><li><a href="https://example.com/threads" data-id="threads">Threads</a></li><li><a href="https://example.com/lemon8" data-id="lemon8">Lemon8</a></li></ul></section>
+<a class="b main cover" href="https://drive.google.com/drive/folders/1tSdpEq-BS-pVeHRoMoDGDK5kG5cLhAdD" data-id="mock"><img class="cv" src="/img/mock-d5fd8f62.webp" width="720" height="398" alt="" loading="lazy" decoding="async"><span class="row"><span class="t"><b>Google Drive<span class="tag">รวม 178 ข้อ</span></b></span><svg class="ico go" viewBox="0 0 24 24" aria-hidden="true"><path d="M9 5.5 15.5 12 9 18.5"/></svg></span></a>
+<a class="b main cover" href="https://bwy-widget.pages.dev/?src=bio" data-id="widget"><img class="cv" src="/img/widget-783f0529.webp" width="720" height="420" alt="" loading="lazy" decoding="async"><span class="row"><span class="t"><b>นับถอยหลังวันสำคัญ<span class="tag">เฉพาะ iOS</span></b></span><svg class="ico go" viewBox="0 0 24 24" aria-hidden="true"><path d="M9 5.5 15.5 12 9 18.5"/></svg></span></a>
+<a class="b main cover" href="https://line.me/ti/g2/XaunxJjN36RqM0Febwc7-tvzH9c39IR8-aUNeA?utm_source=invitation&amp;utm_medium=link_copy&amp;utm_campaign=default" data-id="openchat"><img class="cv" src="/img/openchat-212e9835.webp" width="720" height="438" alt="" loading="lazy" decoding="async"><span class="row"><span class="t"><b>LINE OpenChat<span class="tag">BearWithYou_˚✮</span></b></span><svg class="ico go" viewBox="0 0 24 24" aria-hidden="true"><path d="M9 5.5 15.5 12 9 18.5"/></svg></span></a>
+<section class="follow"><h2>ติดตาม BearWithYou</h2><ul class="chips"><li><a href="https://www.tiktok.com/@bearwithyou21?is_from_webapp=1&amp;sender_device=pc" data-id="tiktok">TikTok</a></li><li><a href="https://www.instagram.com/bearwithyou_exam?avpt=ZDNlZDc0MzIxNw==" data-id="instagram">Instagram</a></li><li><a href="https://x.com/webeartogether?s=11" data-id="x">X</a></li><li><a href="https://www.threads.com/@bearwithyou__" data-id="threads">Threads</a></li><li><a href="https://s.lemon8-app.com/s/GgTkhYTdMh" data-id="lemon8">Lemon8</a></li></ul></section>
 </div>
 </main>
 <script>

diff --git a/lib/links.js b/lib/links.js
@@ -4,11 +4,11 @@ export const LINKS = {
   "buttons": [
     {
       "id": "mock",
-      "title": "Mock Exam & แบบฝึกหัด A-Level"
+      "title": "Google Drive"
     },
     {
       "id": "widget",
-      "title": "Widget นับถอยหลังวันสอบ Dek70"
+      "title": "นับถอยหลังวันสำคัญ"
     },
     {
       "id": "openchat",
